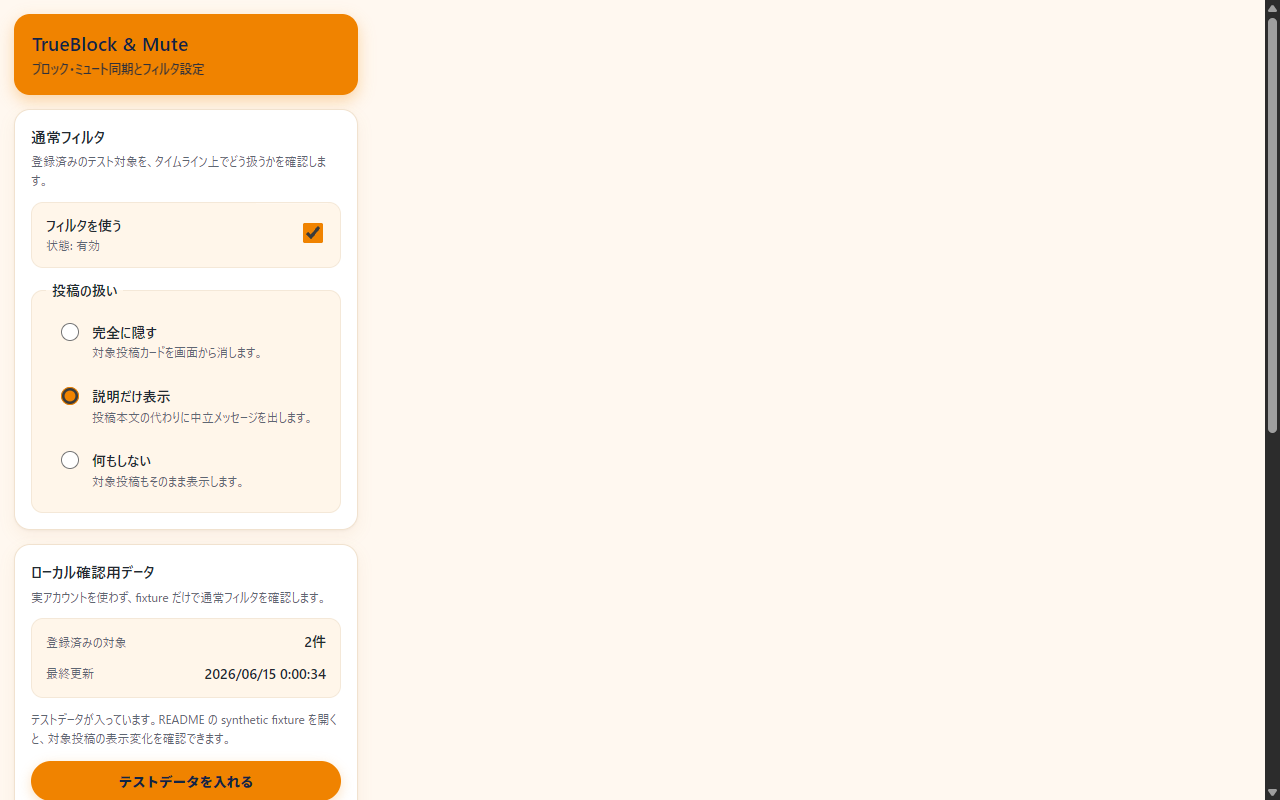
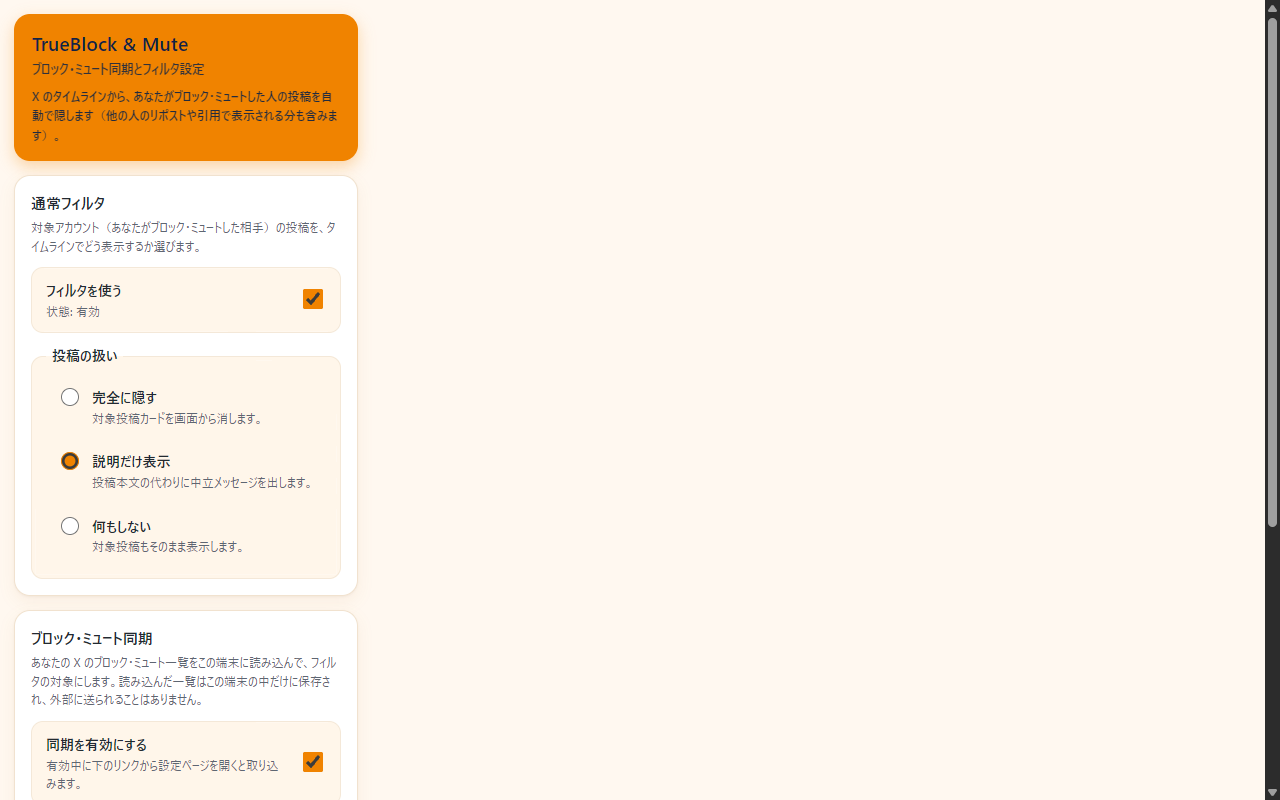
fix(popup): actually hide the gated dev sample panel; refresh v1.1 screenshots
The `hidden` attribute on the dev-only "ローカル確認用データ" panel was being
overridden by `.panel { display: grid }`, so the panel still rendered for end
users even with LOCAL_TEST_UI_ENABLED=false (the JS gating worked; only the CSS
hide failed). Add a `[hidden] { display: none !important; }` reset so the
attribute reliably wins. The popup now shows only the filter + sync sections.

- popup.css: add the `[hidden]` reset.
- scripts/make-screenshots.mjs: seed sample data via the Storage API (the
  #seed-synthetic button is gated off), same fix as the verify script; regenerate
  the three store screenshots from the v1.1 popup (intro line, dev panel hidden).
- verify-extension-load-chrome: add a regression check that the dev sample panel
  is not visible to end users (offsetParent === null).

All 12 verifications pass (offline 11 + real-Chromium 25, incl. the new
dev-panel-hidden check).

diff --git a/src/popup/popup.css b/src/popup/popup.css
@@ -35,6 +35,13 @@
   box-sizing: border-box;
 }
 
+/* The `hidden` attribute must win over the `.panel { display: grid }` rule below
+   (otherwise the dev-only sample panel, gated off via LOCAL_TEST_UI_ENABLED, would
+   still render for end users). */
+[hidden] {
+  display: none !important;
+}
+
 body {
   width: 372px;
   margin: 0;